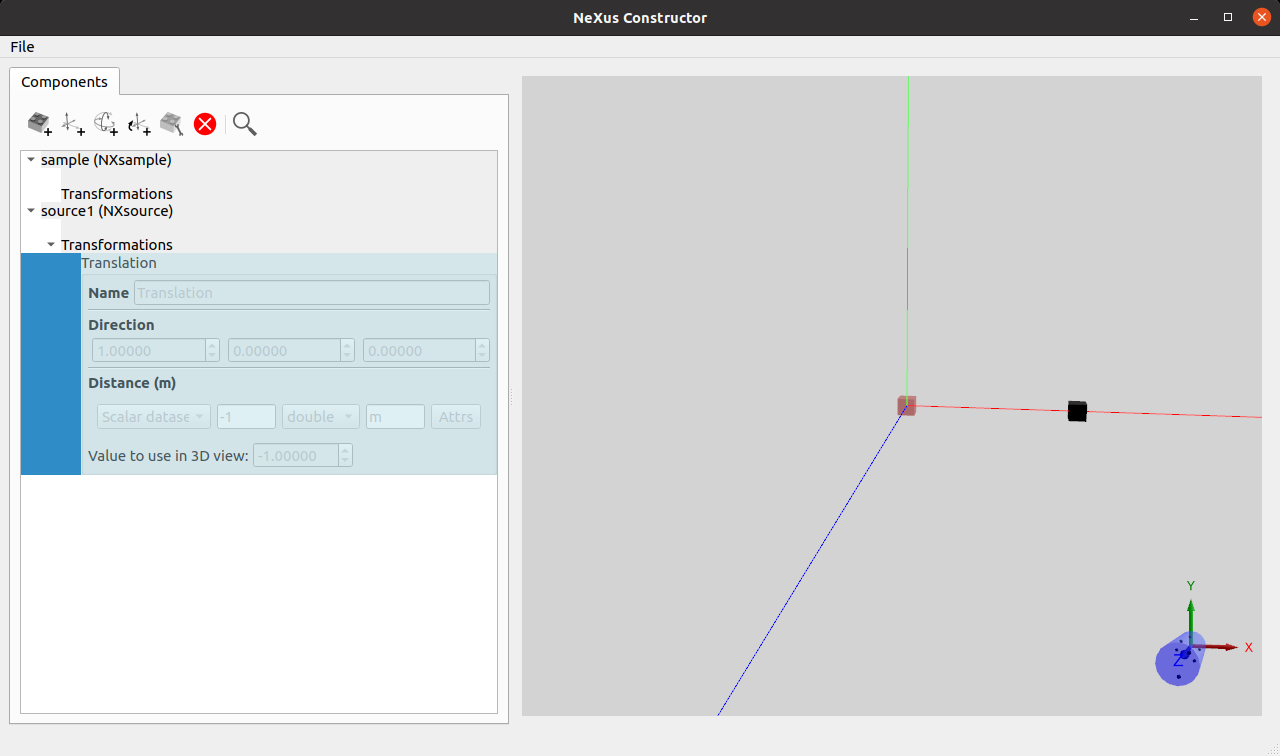
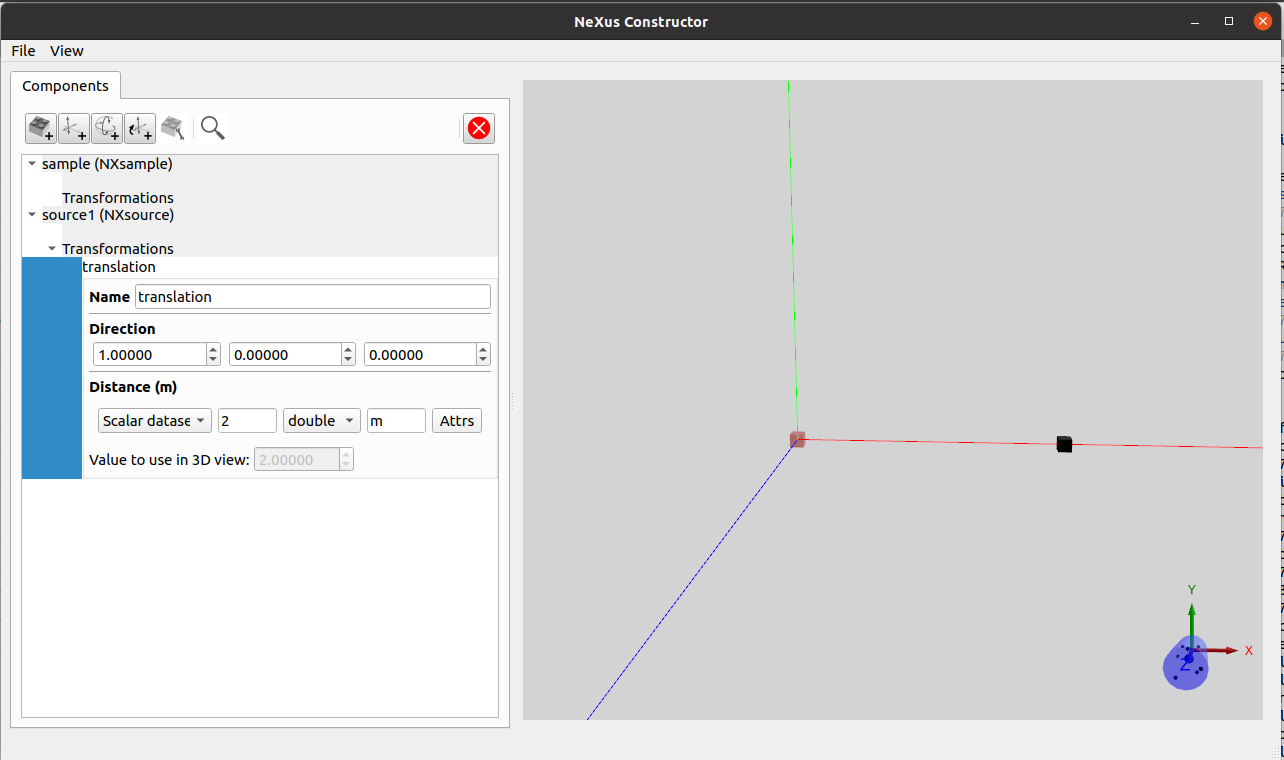
Update figures in getting started guide

diff --git a/getting_started.md b/getting_started.md
@@ -69,7 +69,7 @@ You will see upon adding a new translation the black cube gets shifted to the ri
 
 ![](resources/images/NeXusConstructor_008.png)
 
-The beam direction is conventionally along the z-axis, so use a vector of (0,0,1) and the set a distance of `-20m`. Distance units can be changed with the units field next to the value.
+The beam direction is conventionally along the z-axis, so use a vector of (0,0,1) and the set a distance of `-2m`. Distance units can be changed with the units field next to the value.
 
 ![](resources/images/NeXusConstructor_009.png)
 
